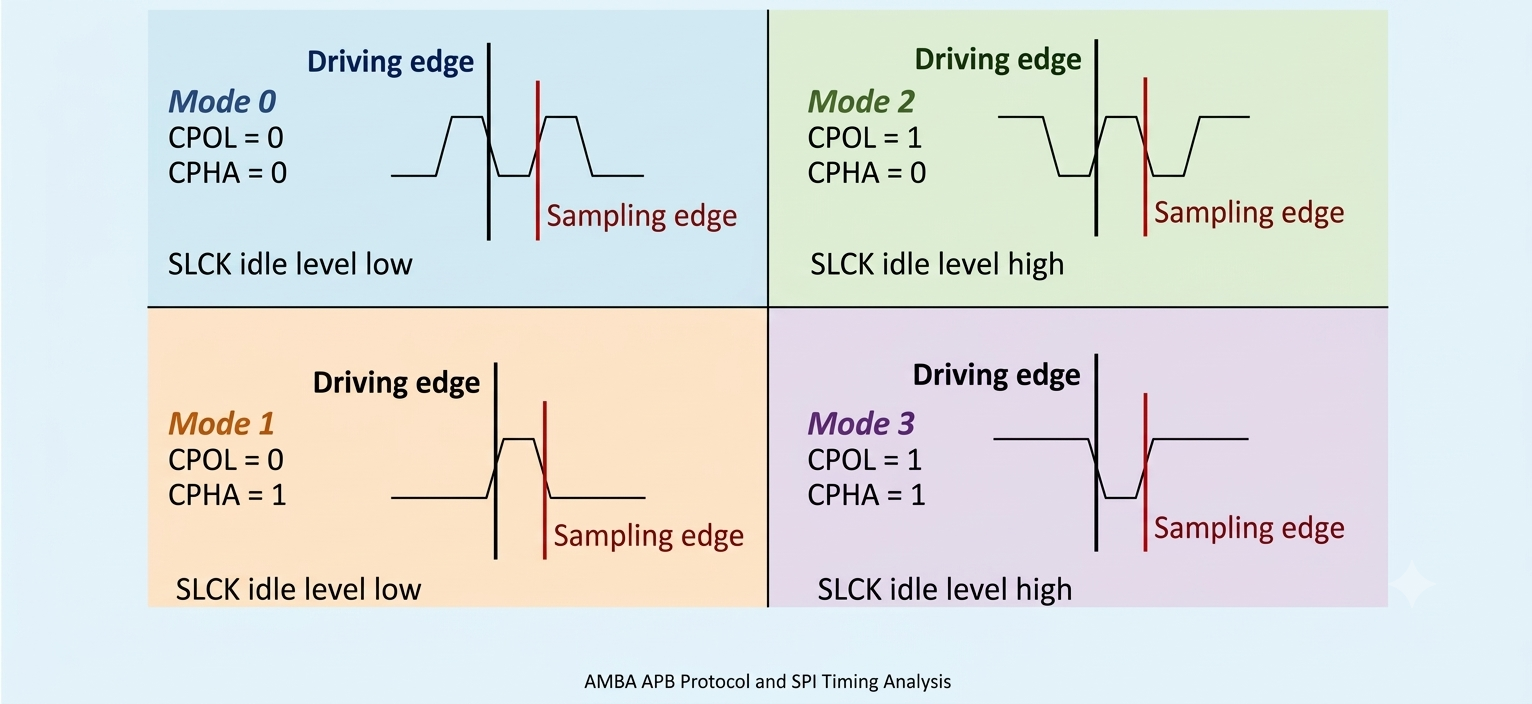
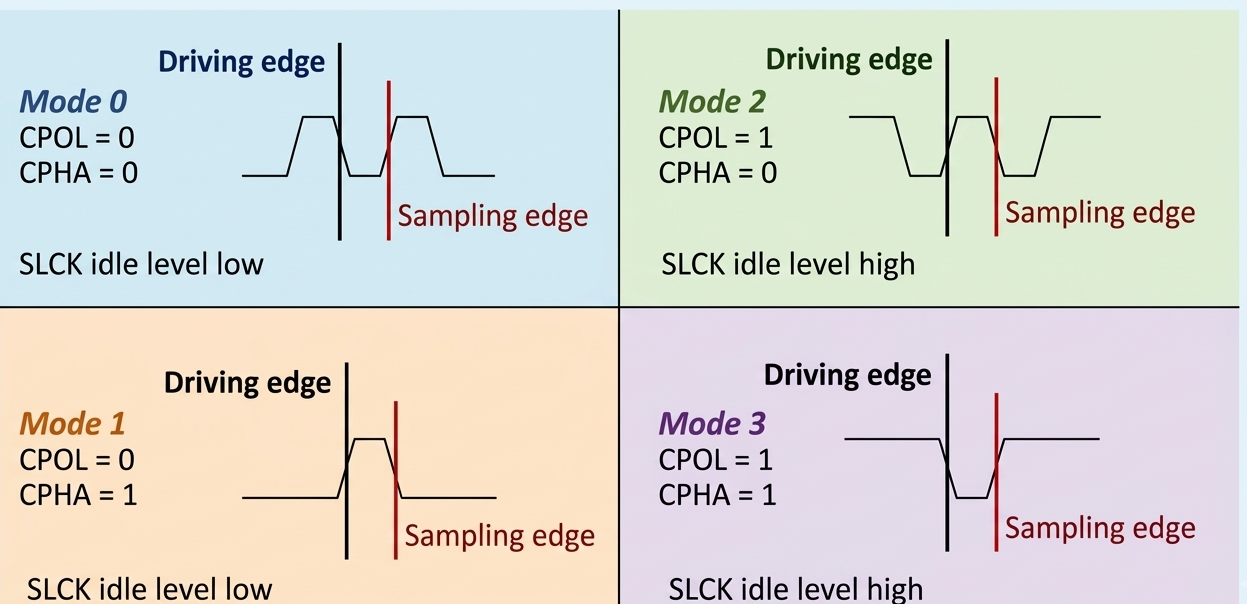
Updating SPI Visuals

diff --git a/_posts/2026-09-22-spi-master-controller-verilog-rtl-apb.md b/_posts/2026-09-22-spi-master-controller-verilog-rtl-apb.md
@@ -50,7 +50,7 @@ The final controller is organized into four functional RTL blocks plus a top-lev
 **Current implementation:** `WIDTH = 8`
 
 <figure>
-  <img src="{{ '/assets/images/spi-master-controller/Architecture.png' | relative_url }}" alt="SPI_TOP microarchitecture" style="max-width:100%;height:auto;">
+  <img src="{{ '/assets/images/spi-master-controller/Architecture.png' | relative_url }}" alt="SPI_TOP microarchitecture" style="max-width:95%;height:auto;">
   <figcaption><strong>Figure 1:</strong> SPI_TOP microarchitecture.</figcaption>
 </figure>
 
@@ -97,7 +97,7 @@ SPI intentionally keeps the interface simple. It normally uses a clock, one line
 | `SS/CS` | Output | Selects the target slave |
 
 <figure>
-  <img src="{{ '/assets/images/spi-master-controller/master_slave.png' | relative_url }}" alt="SPI master and slave communication" style="max-width:100%;height:auto;">
+  <img src="{{ '/assets/images/spi-master-controller/master_slave.png' | relative_url }}" alt="SPI master and slave communication" style="max-width:80%;height:auto;">
   <figcaption><strong>Figure 2:</strong> SPI master and slave communication.</figcaption>
 </figure>
 
@@ -228,14 +228,14 @@ You do not need the entire APB specification to understand this project. These s
 Together, these signals define the software-facing transaction side of the controller.
 
 <figure>
-  <img src="{{ '/assets/images/spi-master-controller/apb_writing.png' | relative_url }}" alt="APB write transaction" style="max-width:100%;height:auto;">
+  <img src="{{ '/assets/images/spi-master-controller/apb_writing.png' | relative_url }}" alt="APB write transaction" style="max-width:50%;height:auto;">
   <figcaption><strong>Figure 4:</strong> APB write transaction used to access the SPI controller.</figcaption>
 </figure>
 
 ### APB state machine
 
 <figure>
-  <img src="{{ '/assets/images/spi-master-controller/apb_fsm.png' | relative_url }}" alt="APB state machine" style="max-width:60%;height:auto;">
+  <img src="{{ '/assets/images/spi-master-controller/apb_fsm.png' | relative_url }}" alt="APB state machine" style="max-width:50%;height:auto;">
   <figcaption><strong>Figure 5:</strong> APB FSM showing the transfer phases.</figcaption>
 </figure>
 
